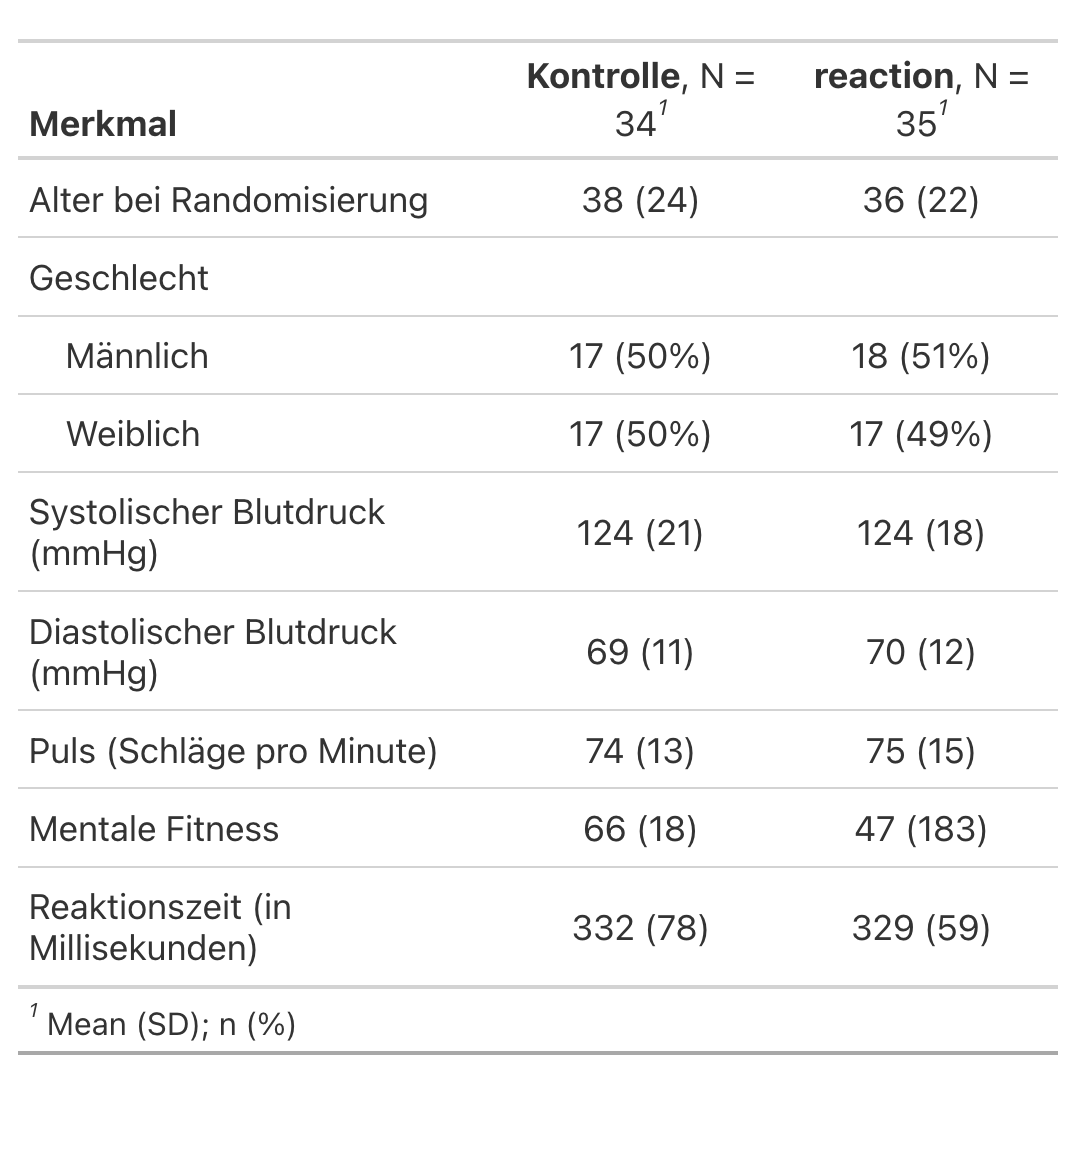
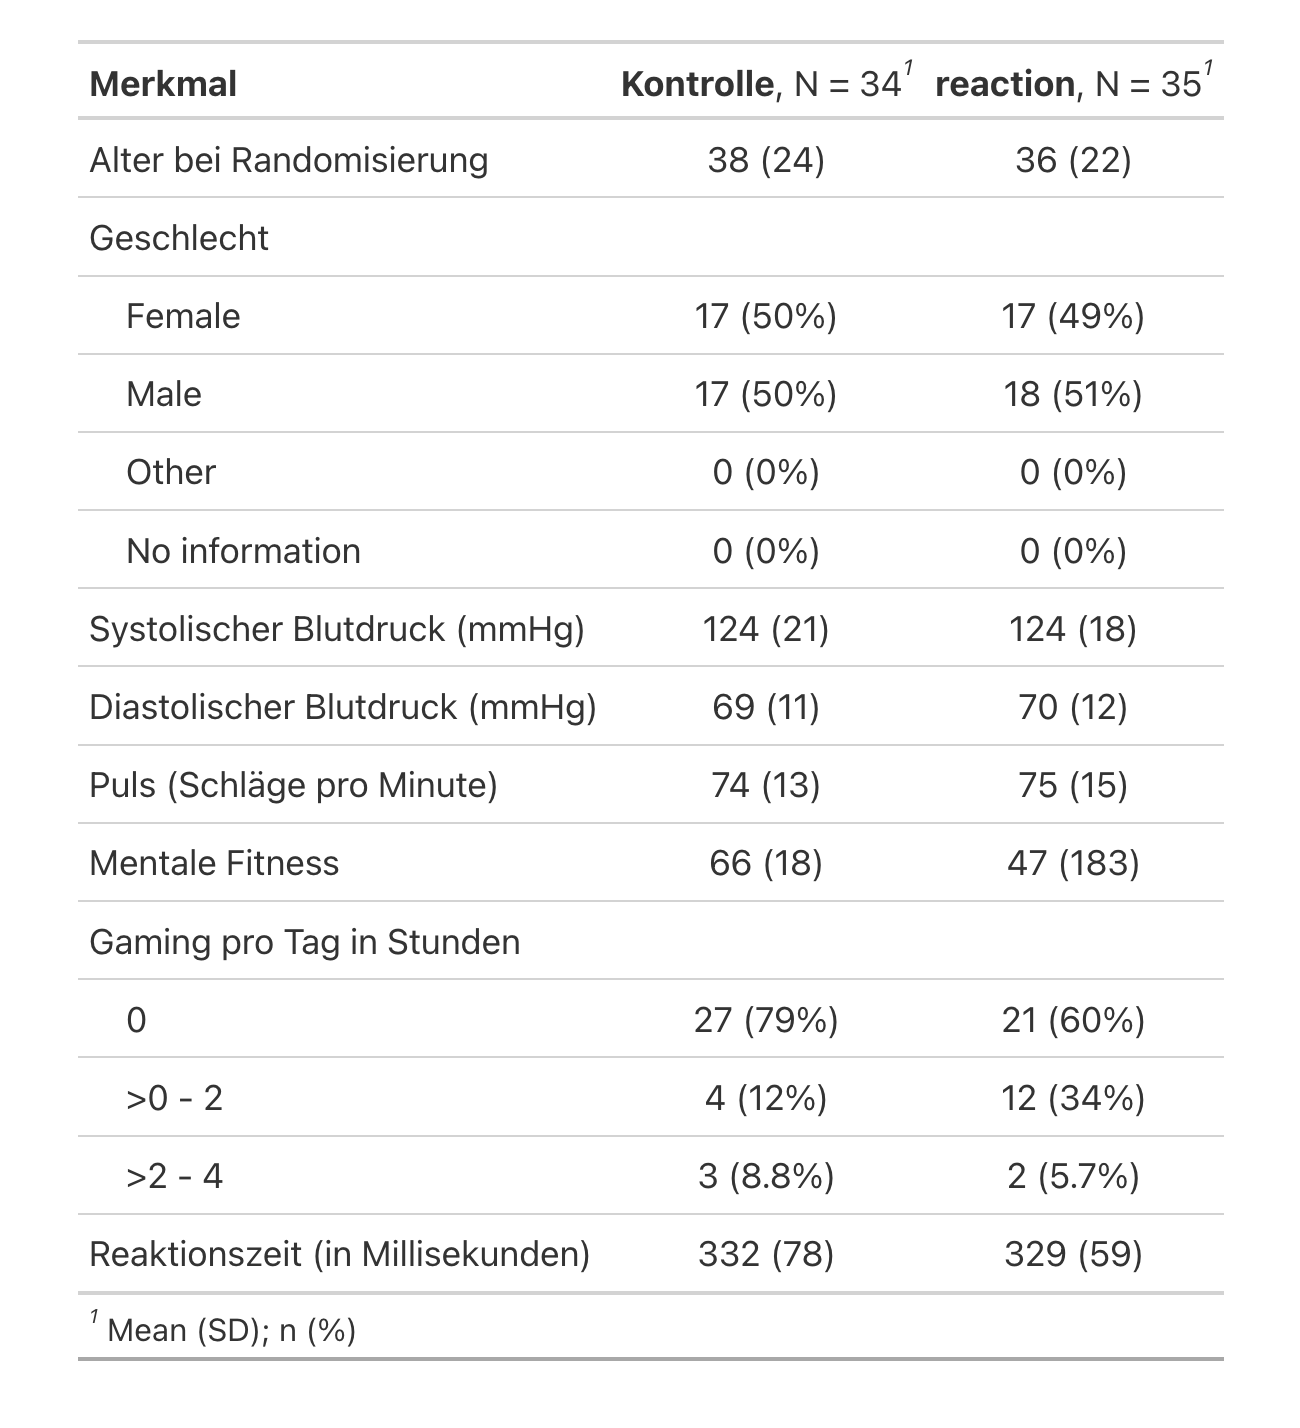
Changes

Changed region(s): [[0.0308, 0.0306, 0.9851, 0.9796]]

diff --git a/docs/02_results.html b/docs/02_results.html
@@ -100,7 +100,9 @@ ul.task-list li input[type="checkbox"] {
   <li><a href="#zusammenfassung" id="toc-zusammenfassung" class="nav-link" data-scroll-target="#zusammenfassung">Zusammenfassung</a></li>
   <li><a href="#rekrutierung" id="toc-rekrutierung" class="nav-link" data-scroll-target="#rekrutierung">Rekrutierung</a></li>
   <li><a href="#merkmale-der-teilnehmenden" id="toc-merkmale-der-teilnehmenden" class="nav-link" data-scroll-target="#merkmale-der-teilnehmenden">Merkmale der Teilnehmenden</a></li>
-  <li><a href="#gesamtergebnis" id="toc-gesamtergebnis" class="nav-link" data-scroll-target="#gesamtergebnis">Gesamtergebnis</a></li>
+  <li><a href="#ergebnis-in-der-gesamtpopulation" id="toc-ergebnis-in-der-gesamtpopulation" class="nav-link" data-scroll-target="#ergebnis-in-der-gesamtpopulation">Ergebnis in der Gesamtpopulation</a></li>
+  <li><a href="#ergebnisse-nach-geschlecht" id="toc-ergebnisse-nach-geschlecht" class="nav-link" data-scroll-target="#ergebnisse-nach-geschlecht">Ergebnisse nach Geschlecht</a></li>
+  <li><a href="#ergebnisse-nach-alterskategorien" id="toc-ergebnisse-nach-alterskategorien" class="nav-link" data-scroll-target="#ergebnisse-nach-alterskategorien">Ergebnisse nach Alterskategorien</a></li>
   </ul></li>
   </ul>
 </nav>
@@ -120,7 +122,7 @@ ul.task-list li input[type="checkbox"] {
 <h1>Resultate</h1>
 <section id="zusammenfassung" class="level2">
 <h2 class="anchored" data-anchor-id="zusammenfassung">Zusammenfassung</h2>
-<p>Wir finden keinen Effekt des reaction-Drinks auf die Reaktionszeit in der Gesamtstudienpopulation.</p>
+<p>Insgesamt wurden 69 Teilnehmende in der reaction-Studie randomisiert (34 Teilnehmende in die Kontrollgruppe, 35 Teilnehmende in die reaction Gruppe). Wir finden keinen Effekt des reaction-Drinks auf die Reaktionszeit in der Gesamtstudienpopulation. Bei Frauen stellen wir einen statistisch relevanten Effekt des reaction-Drinks auf die Reaktionszeit fest.</p>
 </section>
 <section id="rekrutierung" class="level2">
 <h2 class="anchored" data-anchor-id="rekrutierung">Rekrutierung</h2>
@@ -132,11 +134,25 @@ ul.task-list li input[type="checkbox"] {
 <p>34 Teilnehmende wurden in die Kontrollgruppe und 35 Teilnehmende wurde in die reaction Gruppe randomisiert. Andere Merkmale sind in der nachfolgenden Tabelle dargestellt. Die dargestellten Werte repräsentieren entweder eine Anzahl (mit Prozent) oder den Mittelwert (mit Standardabweichung).</p>
 <p><img src="./results/fig2.png" class="img-fluid"></p>
 </section>
-<section id="gesamtergebnis" class="level2">
-<h2 class="anchored" data-anchor-id="gesamtergebnis">Gesamtergebnis</h2>
+<section id="ergebnis-in-der-gesamtpopulation" class="level2">
+<h2 class="anchored" data-anchor-id="ergebnis-in-der-gesamtpopulation">Ergebnis in der Gesamtpopulation</h2>
 <p>Die mittlere Reaktionszeit (in Millisekunden) zum Ausgangszeitpunkt beträgt 332.1 ms in der Kontrollgruppe und 329.0 ms in der reaction Gruppe. Nach dem Trinken des Getränkes beträgt die Reaktionszeit in der Kontrollgruppe 315.6 ms und 308.9 ms in der reaction Gruppe. Die Differenz zwischen der Messung der Folgeuntersuchung und dem Ausgangszeitpunkt beträgt -16.4 ms in der Kontrollgruppe (d.h. Verbesserung der Reaktionszeit). Der Differenzwert in der reaction Gruppe beträgt -26.3 ms.</p>
-<p><img src="./results/fig3.png" class="img-fluid"> Die statistische Modellierung ergibt, dass die mittlere Differenz der Reaktionszeit zwischen der reaction Gruppe und der Kontrollgruppe -10.4 ms beträgt. Da das 95%-Konfidenzintervall den Nulleffekt (d.h. kein Effekt des reaction Drinks) beinhaltet, verwerfen wir die Hypothese dass <strong>kein</strong> Effekt des reaction-Drinks vorliegt <strong>nicht</strong>. Diese Schätzwerte wurden für die Basis-Reaktionszeit und Altersgruppen adjustiert.</p>
+<p><img src="./results/fig3.png" class="img-fluid"> Die statistische Modellierung ergibt, dass die mittlere Differenz der Reaktionszeit zwischen der reaction Gruppe und der Kontrollgruppe -10.4 ms beträgt. Da das 95%-Konfidenzintervall den Nulleffekt (d.h. kein Effekt des reaction Drinks) beinhaltet, schliessen wir daraus, dass kein statistisch relevanter Effekt des reaction-Drinks in der Gesamtpopulation vorliegt. Diese Schätzwerte wurden für die Basis-Reaktionszeit und Altersgruppen adjustiert.</p>
 <p><img src="./results/fig4.png" class="img-fluid"></p>
+</section>
+<section id="ergebnisse-nach-geschlecht" class="level2">
+<h2 class="anchored" data-anchor-id="ergebnisse-nach-geschlecht">Ergebnisse nach Geschlecht</h2>
+<p>Die mittlere Differenz der Reaktionszeit bei Frauen beträgt -47.4 ms in der reaction Gruppe und -4.4 ms in der Kontrollgruppe. Bei den Männern beobachtet man eine Differenz von -6.3 ms in der reaction Gruppe und -28.5 ms in der Kontrollgruppe.</p>
+<p><img src="./results/fig5.png" class="img-fluid"></p>
+<p>Bei Frauen gibt es einen statistisch relevanten Effekt des reaction-Drinks auf die Reaktionszeit: Frauen in der reaction Gruppe haben eine um 31.7 ms tiefere Reaktionszeit als die Kontrollgruppe mit einem 95%-Konfidenzintervalle von 5.5 bis 57.9 ms, welches den Nulleffekt nicht einschliesst.</p>
+<p><img src="./results/fig6.png" class="img-fluid"></p>
+</section>
+<section id="ergebnisse-nach-alterskategorien" class="level2">
+<h2 class="anchored" data-anchor-id="ergebnisse-nach-alterskategorien">Ergebnisse nach Alterskategorien</h2>
+<p>Die mittlere Differenz der Reaktionszeit bei den unter 18-jährigen Teilnehmenden beträgt -16.8 ms in der reaction Gruppe und -28.7 ms in der Kontrollgruppe. Bei den über 50-jährigen Teilnehmenden beträgt die Differenz -11.6 ms in der Kontrollgruppe und -29.2 ms in der reaction Gruppe.</p>
+<p><img src="./results/fig7.png" class="img-fluid"></p>
+<p>Wir finden keine Evidenz für einen Effekt des reaction-Drinks innerhalb der gewählten Altersgruppen finden, da die 95%-Konfidenzintervalle den Nulleffekt beinhalten.</p>
+<p><img src="./results/fig8.png" class="img-fluid"></p>
 
 
 </section>
